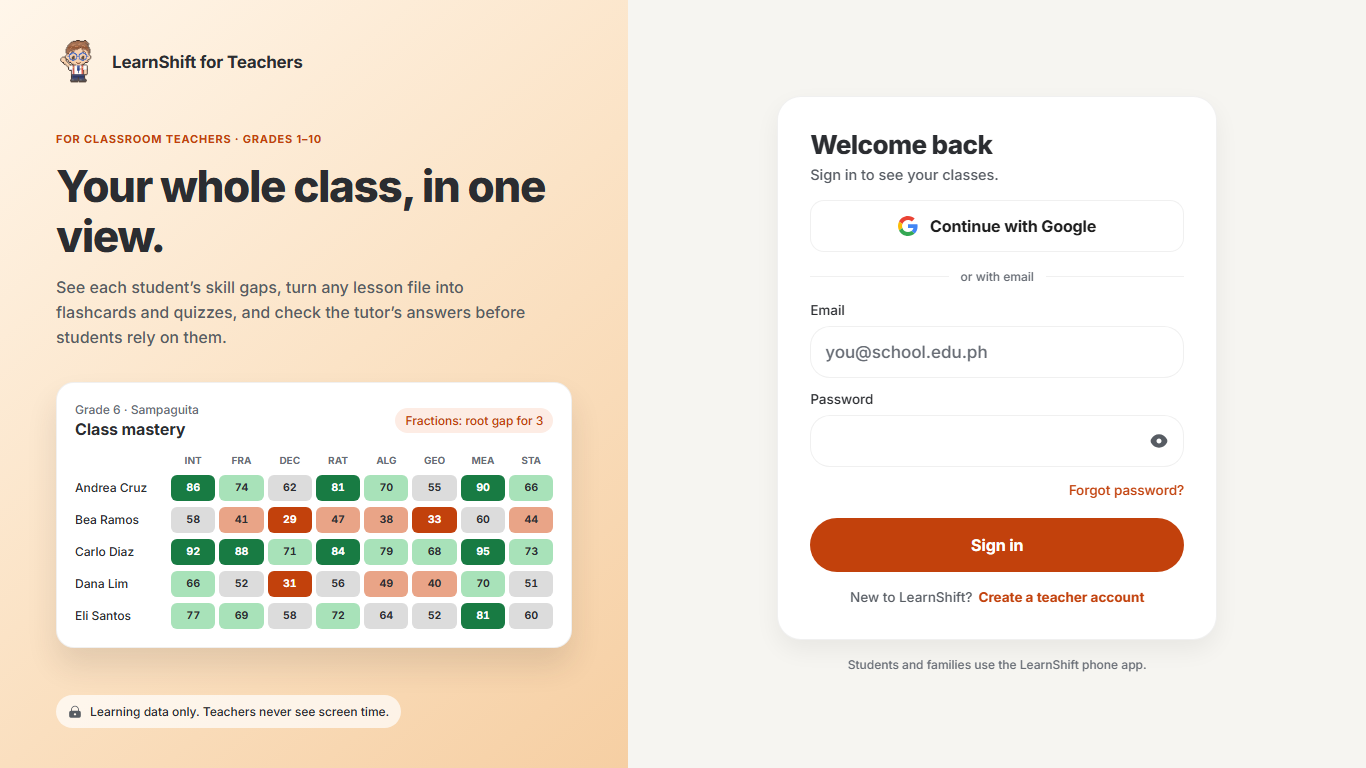
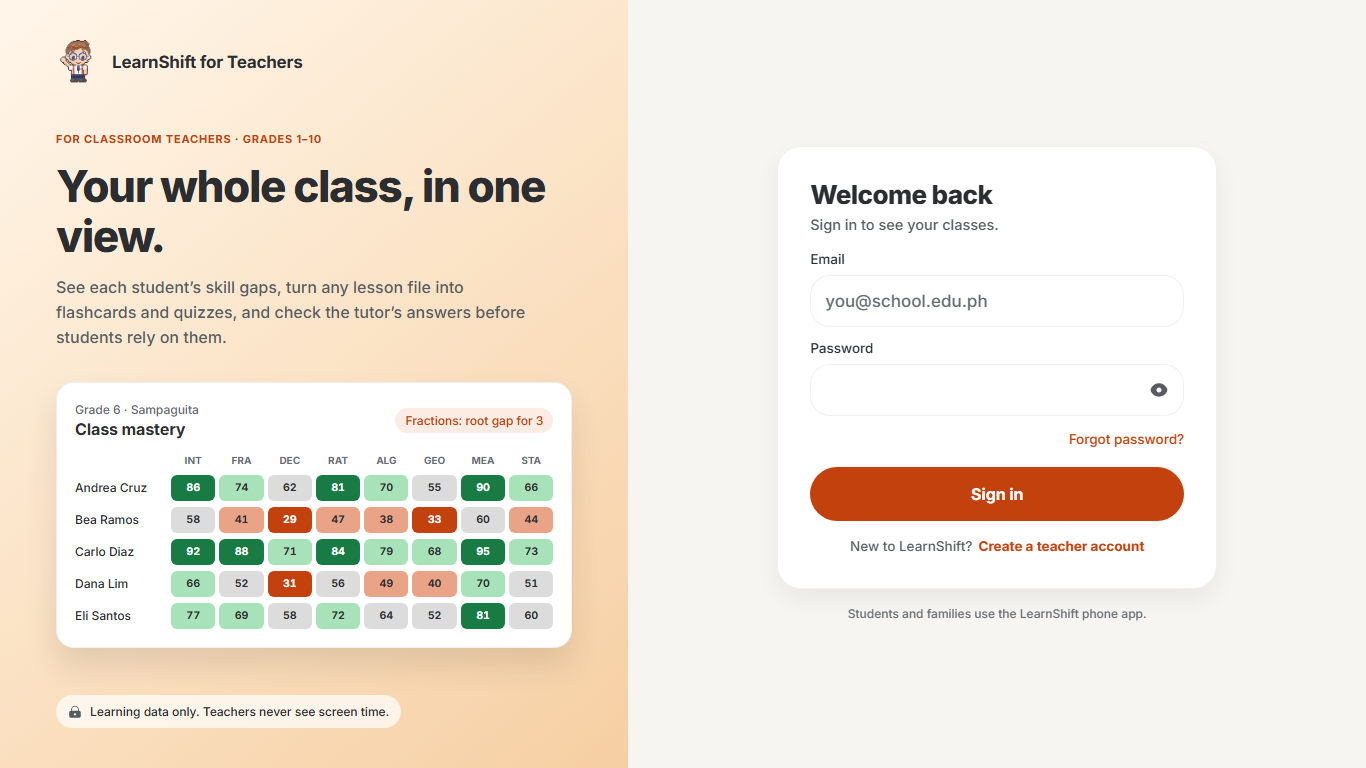
chore(teacher-app): remove Google sign-in for now
Removes the Continue with Google button, signInWithGoogle/claimTeacherRole
client calls and the /auth/callback route. The claim_teacher_role() DB function
stays (applied, unused). Store screenshots and docs updated.

diff --git a/src/components/teacher/TeacherAuth.tsx b/src/components/teacher/TeacherAuth.tsx
@@ -3,11 +3,10 @@ import { Pressable, ScrollView, StyleSheet, useWindowDimensions, View } from 're
 import { LinearGradient } from 'expo-linear-gradient';
 import { router } from 'expo-router';
 import Animated, { useAnimatedStyle, useSharedValue, withDelay, withTiming } from 'react-native-reanimated';
-import Svg, { Path } from 'react-native-svg';
 
 import { Paty } from '@/components/mascot/Paty';
 import { masteryColor, masteryInk } from '@/components/teacher/ClassHeatmap';
-import { Pop, Rise, Shake } from '@/components/teacher/Motion';
+import { Rise, Shake } from '@/components/teacher/Motion';
 import { Notice, PillButton, Text, TextField } from '@/components/ui';
 import { LockKey } from '@/components/ui/icons';
 import { useReducedMotion } from '@/design/motion';
@@ -21,7 +20,7 @@ const EMAIL = /^[^\s@]+@[^\s@]+\.[^\s@]+$/;
 
 /** Sign in / create account for LearnShift for Teachers (desktop). Teachers only. */
 export function TeacherAuth() {
-  const { c, isNight } = useTheme();
+  const { c } = useTheme();
   const { width } = useWindowDimensions();
   const split = width >= 900;
   const [mode, setMode] = useState<Mode>(() => {
@@ -39,7 +38,7 @@ export function TeacherAuth() {
             <Text variant="headline">{TEACHER_APP_NAME}</Text>
           </Rise>
         ) : null}
-        <AuthCard mode={mode} setMode={setMode} night={isNight} />
+        <AuthCard mode={mode} setMode={setMode} />
       </ScrollView>
     </View>
   );
@@ -158,12 +157,12 @@ function Cell({ m, delay, night, c }: { m: number; delay: number; night: boolean
 
 // ── Right: the form ──────────────────────────────────────────────────────
 
-function AuthCard({ mode, setMode, night }: { mode: Mode; setMode: (m: Mode) => void; night: boolean }) {
+function AuthCard({ mode, setMode }: { mode: Mode; setMode: (m: Mode) => void }) {
   const { c } = useTheme();
   const [name, setName] = useState('');
   const [email, setEmail] = useState('');
   const [password, setPassword] = useState('');
-  const [busy, setBusy] = useState<null | 'email' | 'google'>(null);
+  const [busy, setBusy] = useState<null | 'email'>(null);
   const [error, setError] = useState<string | null>(null);
   const [info, setInfo] = useState<string | null>(null);
   const [tries, setTries] = useState(0);
@@ -215,18 +214,6 @@ function AuthCard({ mode, setMode, night }: { mode: Mode; setMode: (m: Mode) => 
     }
   };
 
-  const google = async () => {
-    if (busy) return;
-    setError(null);
-    setBusy('google');
-    try {
-      await api.signInWithGoogle(); // leaves the page on success
-    } catch (e) {
-      fail((e as Error).message);
-      setBusy(null);
-    }
-  };
-
   const forgot = async () => {
     setTouched(true);
     setError(null);
@@ -253,16 +240,6 @@ function AuthCard({ mode, setMode, night }: { mode: Mode; setMode: (m: Mode) => 
               ? 'Sign in to see your classes.'
               : 'Free for teachers. Set up a class in under a minute.'}
           </Text>
-        </Rise>
-
-        <Rise delay={140}>
-          <GoogleButton onPress={google} busy={busy === 'google'} disabled={!!busy} night={night} />
-        </Rise>
-
-        <Rise delay={180} style={styles.divider}>
-          <View style={[styles.rule, { backgroundColor: c.hairline }]} />
-          <Text variant="caption">or with email</Text>
-          <View style={[styles.rule, { backgroundColor: c.hairline }]} />
         </Rise>
 
         {error ? <Notice text={error} /> : null}
@@ -350,55 +327,6 @@ function AuthCard({ mode, setMode, night }: { mode: Mode; setMode: (m: Mode) => 
   );
 }
 
-function GoogleButton({ onPress, busy, disabled, night }: { onPress: () => void; busy: boolean; disabled: boolean; night: boolean }) {
-  const { c } = useTheme();
-  return (
-    <Pressable
-      onPress={onPress}
-      disabled={disabled}
-      accessibilityRole="button"
-      accessibilityLabel="Continue with Google"
-      style={({ hovered, pressed }) => [
-        styles.google,
-        {
-          borderColor: c.hairline,
-          backgroundColor: night ? '#FFFFFF' : c.card,
-          opacity: disabled && !busy ? 0.6 : 1,
-          transform: [{ scale: pressed ? 0.98 : 1 }, { translateY: hovered && !pressed ? -1 : 0 }],
-        },
-        hovered && styles.googleHover,
-      ]}
-    >
-      {busy ? (
-        <Pop>
-          <Text variant="headline" color="#1F1F1F">
-            Opening Google…
-          </Text>
-        </Pop>
-      ) : (
-        <>
-          <GoogleG />
-          <Text variant="headline" color="#1F1F1F">
-            Continue with Google
-          </Text>
-        </>
-      )}
-    </Pressable>
-  );
-}
-
-/** Google's "G" mark, in its own colours. */
-function GoogleG() {
-  return (
-    <Svg width={20} height={20} viewBox="0 0 48 48" accessibilityElementsHidden>
-      <Path fill="#EA4335" d="M24 9.5c3.54 0 6.71 1.22 9.21 3.6l6.85-6.85C35.9 2.38 30.47 0 24 0 14.62 0 6.51 5.38 2.56 13.22l7.98 6.19C12.43 13.72 17.74 9.5 24 9.5z" />
-      <Path fill="#4285F4" d="M46.98 24.55c0-1.57-.15-3.09-.38-4.55H24v9.02h12.94c-.58 2.96-2.26 5.48-4.78 7.18l7.73 6c4.51-4.18 7.09-10.36 7.09-17.65z" />
-      <Path fill="#FBBC05" d="M10.53 28.59c-.48-1.45-.76-2.99-.76-4.59s.27-3.14.76-4.59l-7.98-6.19C.92 16.46 0 20.12 0 24c0 3.88.92 7.54 2.56 10.78l7.97-6.19z" />
-      <Path fill="#34A853" d="M24 48c6.48 0 11.93-2.13 15.89-5.81l-7.73-6c-2.15 1.45-4.92 2.3-8.16 2.3-6.26 0-11.57-4.22-13.47-9.91l-7.98 6.19C6.51 42.62 14.62 48 24 48z" />
-    </Svg>
-  );
-}
-
 const styles = StyleSheet.create({
   root: { flex: 1, flexDirection: 'row' },
   flex: { flex: 1 },
@@ -426,10 +354,6 @@ const styles = StyleSheet.create({
   card: { borderRadius: 24, borderWidth: 1, padding: 32, gap: 16, shadowColor: '#000', shadowOpacity: 0.06, shadowRadius: 24, shadowOffset: { width: 0, height: 10 } },
   cardTitle: { fontFamily: 'Inter_800ExtraBold', fontSize: 26, lineHeight: 32, letterSpacing: -0.6 },
   cardSub: { marginTop: 4, fontSize: 14.5 },
-  google: { height: 52, borderRadius: 14, borderWidth: 1, flexDirection: 'row', alignItems: 'center', justifyContent: 'center', gap: 12 },
-  googleHover: { shadowColor: '#000', shadowOpacity: 0.08, shadowRadius: 10, shadowOffset: { width: 0, height: 4 } },
-  divider: { flexDirection: 'row', alignItems: 'center', gap: 12 },
-  rule: { flex: 1, height: 1 },
   fields: { gap: 12 },
   forgot: { alignSelf: 'flex-end', paddingVertical: 2 },
   meterRow: { flexDirection: 'row', alignItems: 'center', gap: 6 },

diff --git a/src/services/backend/api.ts b/src/services/backend/api.ts
@@ -58,31 +58,6 @@ export async function signIn(email: string, password: string) {
   return data.session;
 }
 
-/** Google sign-in (web). Returns to /auth/callback, which finishes the session. */
-export async function signInWithGoogle() {
-  if (Platform.OS !== 'web' || typeof window === 'undefined') {
-    throw new Error('Google sign-in is available in the teacher app on a computer.');
-  }
-  const { error } = await supabase.auth.signInWithOAuth({
-    provider: 'google',
-    options: { redirectTo: `${window.location.origin}/auth/callback`, queryParams: { prompt: 'select_account' } },
-  });
-  if (error) {
-    if (/provider is not enabled|unsupported provider/i.test(error.message)) {
-      throw new Error('Google sign-in isn’t switched on yet. Use your email for now.');
-    }
-    fail(error);
-  }
-}
-
-/** First Google sign-in from the teacher app: make this new account a teacher. */
-export async function claimTeacherRole() {
-  const { data, error } = await supabase.rpc('claim_teacher_role');
-  if (error) fail(error);
-  if (data?.error) throw new Error(data.error);
-  await refreshProfile();
-}
-
 export async function signOut() {
   await supabase.auth.signOut().catch(() => {});
 }

diff --git a/src/components/web/PhoneFrame.tsx b/src/components/web/PhoneFrame.tsx
@@ -26,7 +26,7 @@ export const SHOW_FRAME: boolean = (() => {
     if (q.has('full')) return false;
     if (window.localStorage.getItem('ls-full') === '1') return false;
     // Teachers and guardians work on laptops: their screens get the full window.
-    if (/^\/(teacher|guardian|reset-password|privacy-policy|auth)(\/|$)/.test(window.location.pathname)) return false;
+    if (/^\/(teacher|guardian|reset-password|privacy-policy)(\/|$)/.test(window.location.pathname)) return false;
     if (window.localStorage.getItem(STAFF_KEY) === '1') return false;
     if (q.get('mode') === 'signin') return false;
   } catch {

diff --git a/src/app/privacy-policy.tsx b/src/app/privacy-policy.tsx
@@ -14,7 +14,7 @@ const SECTIONS: [string, string[]][] = [
   [
     'What we store about teachers',
     [
-      'Your name and email address, and your password (stored only as a secure hash by our sign-in provider). If you sign in with Google, we receive only your name and email address from Google.',
+      'Your name and email address, and your password (stored only as a secure hash by our sign-in provider).',
       'The classes you create, their join codes, and the lesson modules, flashcards and quiz questions you publish.',
       'Your reviews of the AI tutor’s explanations.',
     ],

diff --git a/src/app/_layout.tsx b/src/app/_layout.tsx
@@ -117,7 +117,6 @@ function Shell() {
           <Stack.Screen name="index" />
           <Stack.Screen name="onboarding" options={{ animation: 'fade' }} />
           <Stack.Screen name="reset-password" options={{ animation: 'fade' }} />
-          <Stack.Screen name="auth/callback" options={{ animation: 'fade' }} />
           <Stack.Screen name="teachers-only" options={{ animation: 'fade' }} />
           <Stack.Screen name="join/[code]" options={{ animation: 'fade' }} />
           <Stack.Screen name="privacy-policy" options={{ animation: 'fade' }} />

diff --git a/docs/teacher-app-store.md b/docs/teacher-app-store.md
@@ -11,29 +11,12 @@ npx eas-cli@latest deploy --alias teacher --export-dir dist-teacher
 
 Students keep using https://learnshift.expo.app (class QR codes open `…/join/CODE` there).
 
-## 1. Turn on Google sign-in (one time, about 15 minutes)
+## 1. Sign-in
 
-1. **Google Cloud Console** → APIs & Services → **OAuth consent screen**
-   - User type: External. App name: *LearnShift for Teachers*. Support email: yours.
-   - Scopes: only the defaults (`email`, `profile`, `openid`). No verification review is needed for these.
-   - App domain / privacy policy: `https://learnshift--teacher.expo.app/privacy-policy`.
-   - Publish the app (Testing mode only allows listed test users).
-2. **Credentials** → Create credentials → **OAuth client ID** → *Web application*
-   - Authorized redirect URI: `https://awajvyyqlafxyngwhuml.supabase.co/auth/v1/callback`
-   - Copy the Client ID and Client secret.
-3. **Supabase dashboard** → Authentication → **Sign In / Providers** → Google
-   - Enable, paste the Client ID and secret, save.
-4. **Supabase dashboard** → Authentication → **URL Configuration** → Redirect URLs, add:
-   - `https://learnshift--teacher.expo.app/auth/callback`
-   - `https://learnshift--teacher.expo.app/reset-password`
-   - `http://localhost:8081/auth/callback` (local development)
-
-Until step 3 is done, the Google button shows "Google sign-in isn't switched on yet. Use your email for now."
-
-How roles work: a first Google sign-in creates a student profile (the database default), then
-the app calls `claim_teacher_role()`, which turns it into a teacher only if the account is new
-(under 30 minutes), has no email/password identity, and has no class, guardian link or answers.
-`scripts/backend-test.mjs` covers the refusals.
+Teachers sign in with email and password. Google sign-in was removed for now; the
+`claim_teacher_role()` database function from that work is still in place (unused) if it returns.
+Add `https://learnshift--teacher.expo.app/reset-password` to Supabase → Authentication →
+URL Configuration → Redirect URLs so password-reset emails open the teacher app.
 
 ## 2. Package for the Microsoft Store (PWABuilder)
 
